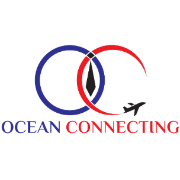
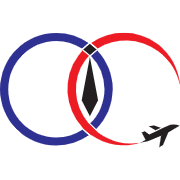
mos

Changed region(s): [[0.0, 0.1667, 1.0, 0.8333], [0.8056, 0.3889, 0.8333, 0.4167]]

diff --git a/app/components/Contact/Start.jsx b/app/components/Contact/Start.jsx
@@ -9,7 +9,7 @@ const Startcontact = () => {
                     <div className="mx-auto max-w-7xl pt-10 sm:pt-20 sm:pb-24 px-6 h-[150px] flex justify-center items-center">
                         <div className='col-span-6 flex flex-col justify-center'>
                             <h1 className="text-2xl lg:text-5xl font-semibold text-white text-center">
-                                Préparer des devis de nettoyage en un rien de temps
+                                CONTACTEZ-NOUS
                             </h1>
                         </div>
                     </div>
@@ -33,14 +33,13 @@ const Startcontact = () => {
             <div className="container flex flex-col items-center justify-center w-full p-6 mx-auto text-center xl:px-0">
                 <div className="text-sm font-bold tracking-wider text-lightgrey uppercase">Devis de nettoyage gratuit en ligne</div>
                 <h2 className="max-w-6xl mt-3 text-3xl font-bold leading-snug tracking-tight bg-gradient-to-r from-blue600 to-red600 bg-clip-text text-transparent lg:leading-tight lg:text-4xl dark:text-white">
-                    ESTIMEZ LE BUDGET DE VOS PRESTATIONS DE NETTOYAGE
+                COMMENT POUVONS-NOUS VOUS AIDER ?
                 </h2>
-                <p className="max-w-6xl py-2 text-lg leading-normal text-lightgrey lg:text-xl xl:text-xl dark:text-gray-300">
+                {/* <p className="max-w-6xl py-2 text-lg leading-normal text-lightgrey lg:text-xl xl:text-xl dark:text-gray-300">
                     Vous souhaitez connaître le montant approximatif de votre prestation de nettoyage ?
-                </p>
+                </p> */}
                 <p className="max-w-6xl py-2 text-md leading-normal text-lightgrey lg:text-md xl:text-md dark:text-gray-300">
-                    En quelques clics, réalisez la simulation budgétaire de votre service de nettoyage pour vos locaux professionnels grâce à notre devis en ligne de nettoyage gratuit. N’hésitez pas à nous contacter si vous avez des besoins spécifiques ! <br/>
-                    (Rappel : Même si nous aimerions réaliser des prestations de nettoyage pour tous, nous n’intervenons que chez les professionnels)                </p>
+                Bienvenue chez Ocean Connecting ! Nous sommes heureux de vous proposer des services de nettoyage de façades de bâtiments et de panneaux solaires de premier ordre. Veuillez remplir le formulaire de contact ci-dessous pour nous contacter. Nous sommes là pour veiller à ce que votre propriété brille et fonctionne de manière optimale. Merci de nous avoir choisis !               </p>
             </div>
         </div>
     );

diff --git a/app/components/Navbar/Navbar.tsx b/app/components/Navbar/Navbar.tsx
@@ -36,12 +36,12 @@ const Navbar = () => {
                         <div className="flex flex-1 items-center sm:justify-between">
                             <div className="flex sm:hidden flex-shrink-0 items-center border-right">
                                 <Link href="/" className='text-2xl font-semibold text-black ml-4'>
-                                    <Image src="/images/Logo/ocean3.png" alt="logo" width={150} height={46} />
+                                    <Image src="/images/Logo/ocean1.svg" alt="logo" width={150} height={56} />
                                 </Link>
                             </div>
                             <div className="hidden sm:flex flex-shrink-0 items-center border-right">
                                 <Link href="/" className='text-2xl font-semibold text-black ml-4'>
-                                    <Image src="/images/Logo/ocean3.png" alt="logo" width={140} height={36} />
+                                    <Image src="/images/Logo/ocean1.svg" alt="logo" width={150} height={36} />
                                 </Link>
                             </div>
                             <div className="hidden lg:flex items-center border-right ">

diff --git a/app/components/Footer/index.jsx b/app/components/Footer/index.jsx
@@ -104,8 +104,8 @@ const Footer = () => {
         </div>
         <div className="grid grid-cols-1 lg:grid-cols-4">
           <div className="space-y-2 lg:col-span-1">
-            <div className="flex items-center space-x-2">
-              <Image src="/images/Logo/ocean3.png" alt={footerText.logoAlt} width={36} height={120} />
+            <div className="flex items-center mb-4 space-x-2">
+              <Image src="/images/Logo/ocean2.svg" alt={footerText.logoAlt} width={240} height={50} />
             </div>
             <p className="text-sm">{footerText.mainDescription}</p>
             <p className="text-sm">{footerText.detailedDescription}</p>

diff --git a/app/components/Navbar/Drawer.tsx b/app/components/Navbar/Drawer.tsx
@@ -33,7 +33,7 @@ const Drawer = ({ children, isOpen, setIsOpen }: DrawerProps) => {
                         <div className="flex flex-shrink-0 items-center border-right">
                             
                             <Link href="/" className='text-2xl font-semibold text-black ml-4'>
-                            <Image src="/images/Logo/ocean3.png" alt="logo" width={140} height={36} />
+                            <Image src="/images/Logo/ocean1.svg" alt="logo" width={140} height={36} />
                             </Link>
                         </div>
 

diff --git a/app/layout.tsx b/app/layout.tsx
@@ -16,7 +16,7 @@ export default function RootLayout({
   return (
     <html lang="en">
       <head>
-        <link rel="icon" type="image/png" href="/favicon-48x48.png" sizes="48x48" />
+        <link rel="icon" type="image/png" href="/favicon-96x96.png" sizes="96x96" />
         <link rel="icon" type="image/svg+xml" href="/favicon.svg" />
         <link rel="shortcut icon" href="/favicon.ico" />
         <link rel="apple-touch-icon" sizes="180x180" href="/apple-touch-icon.png" />
